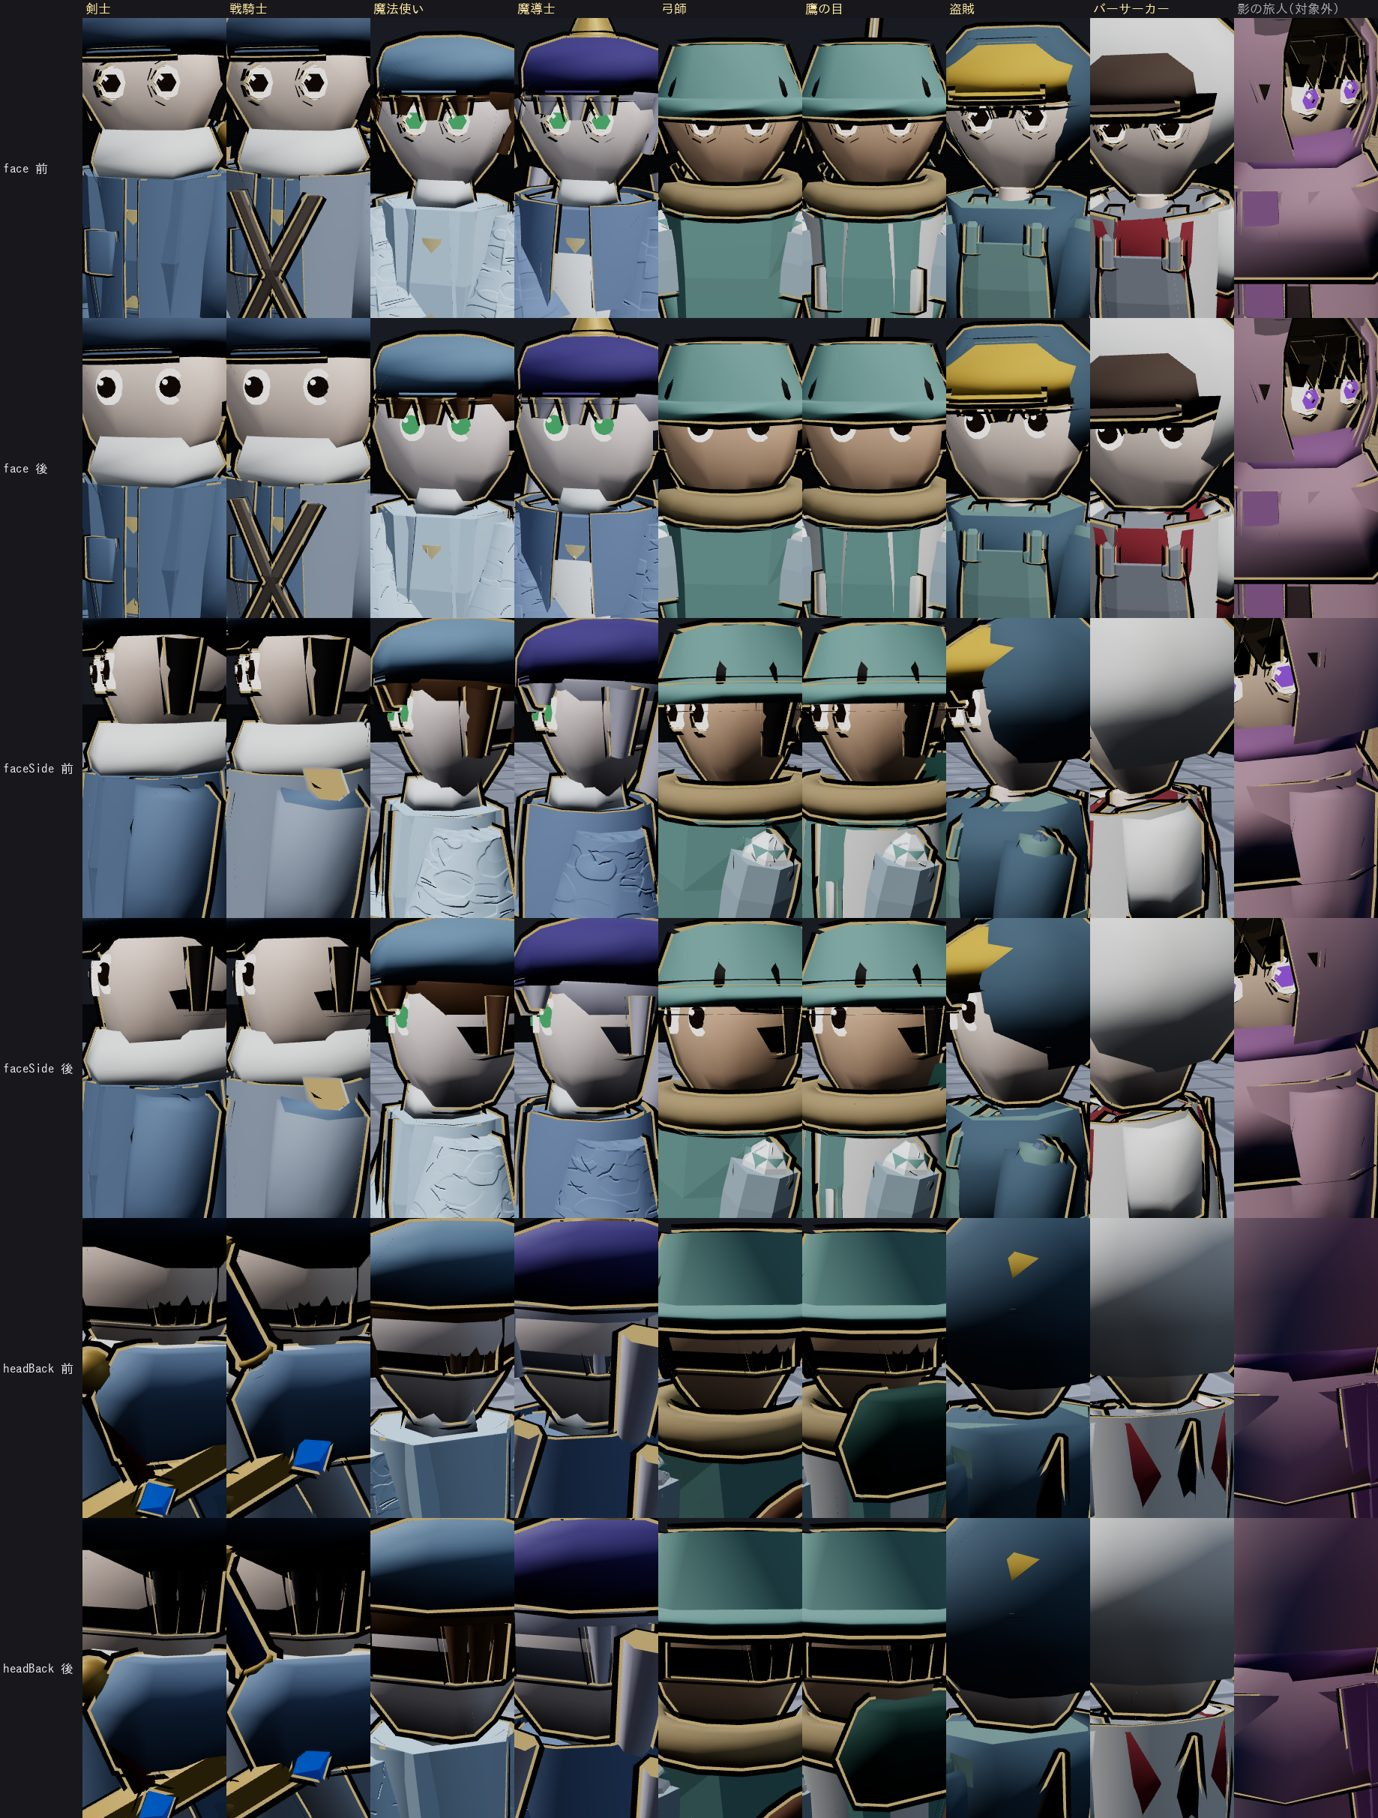
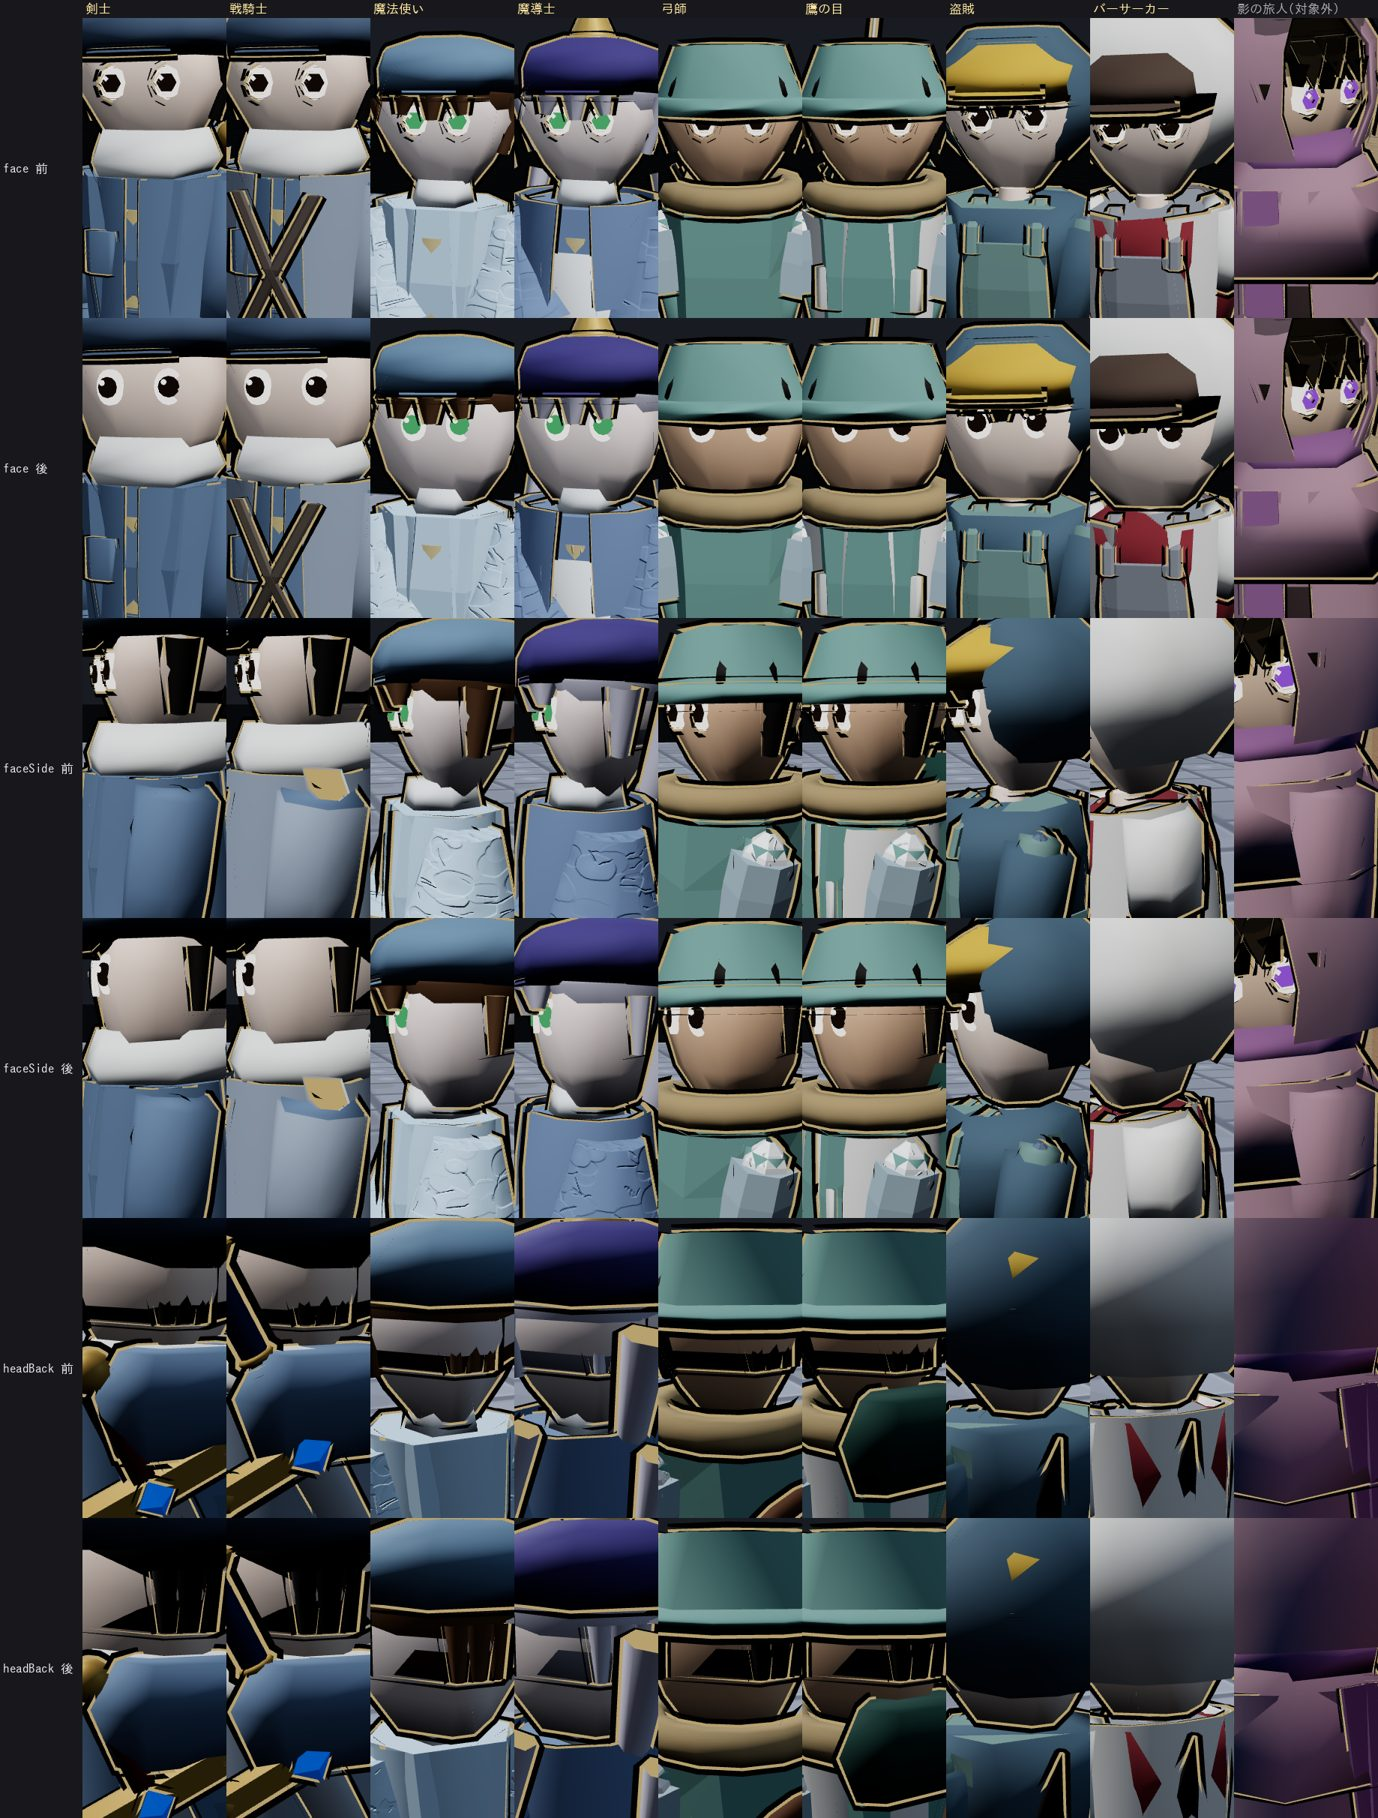
CHARACTER-VIS-002 T-1: 比較画像の更新、Review の指摘への対応の記録
Claude-Session: https://claude.ai/code/session_01E5HtvtZnZXQW2TYqKrPCHQ

diff --git a/.ai/tasks/CHARACTER-VIS-002.md b/.ai/tasks/CHARACTER-VIS-002.md
@@ -526,7 +526,17 @@ T-1〜T-6 は下の E-1・E-2 の回答待ち（`WAITING_APPROVAL`）。T-0 / T-
   | 目の輪郭線 | 目の3枚に `userData.noOutline`（輪郭線・X 線シェルを付けない）。点線の輪の解消。描画 1 人 -18 メッシュ |
   | 目の向き | 左右の目を白目の中心を軸に外へ 0.28 rad（位置の回転 + 板の回転）。大きさ・間隔・瞳・縦横比は不変 |
   | 横の髪 | 横の髪の房を太さ 0.62 倍・長さ 0.78 倍、頬の後ろ（headR × 0.16）・上（× 0.10）へ（joint analysis J-3）|
-- 描画の量（`character-visual-budget` の上限を更新）: 全メッシュ 1 人 -18（剣士 325 → 307 ほか）、三角形は T-0 より 1 人 -232、本体メッシュ・Material の数は不変
+- 描画の量（`character-visual-budget` の上限を更新）: 全メッシュ 1 人 -18（剣士 325 → 307 ほか）、三角形は T-0 より 1 人 -216、本体メッシュ・Material の数は不変
+- Review（Round 1、PASS、`.ai/reports/CHARACTER-VIS-002-T1-review.md`）の推奨の指摘への対応:
+  | 指摘 | 対応 |
+  | --- | --- |
+  | S-1 横顔の頬の黒いくさび | 原因は髪の殻（横の髪の房を隠しても残った）。うなじの輪の頬の2点が頭の外（1.09 倍）、顔側の点が内側（0.55 倍）で、その間の面が頬の横へ突き出していた。4職だけ、うなじの輪の頬の2点を頭の面の内側（0.96 倍、`opts.napeSideIn`）へ。撮影でくさびはほぼ消えた（こめかみの小さな影 = 細くした横の髪の房は残る）|
+  | S-2 目の描画上の差 | 白目の点の数 14 → 16（真上・真下・真横に頂点 → 描画上の縦横比も 1.28）。回した後に3枚をまとめて横へ戻し、左右の瞳の位置を回す前と同じにした。残る描画上の差（瞳の見かけの高さ +15%: 6 角形 → 12 角形で真上・真下に頂点が来るため、ハイライトの面積 +41%: 4 角形 → 8 角形）は V-1 の確認項目 |
+  | S-3 接合の項目の割り当て | AD-19 と Work Items の表に割り当て |
+  | S-4 目の変更を E-3 に | E-3 の Facts と E 案（目を T-4 の見た目へ戻す）に追加 |
+  | note 魔導士の髪の頭の断面 | `headSections` に変えたところ、転身の関数（`applyJobPromotionVisual`）の中で見えない変数で魔導士の生成が壊れた（`character-visual-budget` の魔導士で検出）。`HEAD_SECTION_RATIOS_SOFT` のまま（魔導士は必ず魔法使い）とし、コメントで理由を残した |
+  | note 表記 | 顎線 nosePush の基準、案 B のメッシュ数を統一 |
+- 三角形の上限: 白目 16 点の分 1 人 +16（目には輪郭線が無いので複製されない）
 - 判断を待つもの（ESCALATION E-3、下）: 目の部品（瞳孔・上まぶた）と顔のパーツ（口・鼻・眉）
 
 ### Test Report（T-1）
@@ -536,6 +546,7 @@ T-1〜T-6 は下の E-1・E-2 の回答待ち（`WAITING_APPROVAL`）。T-0 / T-
 | `npm run test:unit` | PASS（2341）|
 | 関連 E2E 93件（`character-visual-budget`・`character-clothing`・`character-palette`・`character-weapon-visual`・`character-motion`・`weapon-stow`・`battle-knight-visual`・`base-class-identity`・`base-class-comparison`・`job-traits`・`wanderer-renewal`・`road2-join`・`chapter1-progression`）| 初回 89 PASS / 4 FAIL → 修正後 93 PASS（FLAKY なし）|
 | 初回の FAIL 4件 | `character-motion.spec.js` の T-2 体格（4職）: 頭身の期待値 5.0（DEC-036 で 4.75 に変わった仕様）。期待値を 4.75 へ、肩の外幅 / 頭の幅の範囲（T-2 V-1a の 1.26〜1.46）を頭の拡大の比 4.75/5.0 で換算（1.197〜1.387）した（AD-18）。全高・手とベルト・腰幅の比の assert は変えていない。修正後 4 PASS |
+| 関連 E2E 93件（顔の造形の追加・Review の指摘の対応の後）| 下の Status History |
 | 全 E2E | CI で実行（PR）|
 
 ### 影の旅人への非影響
